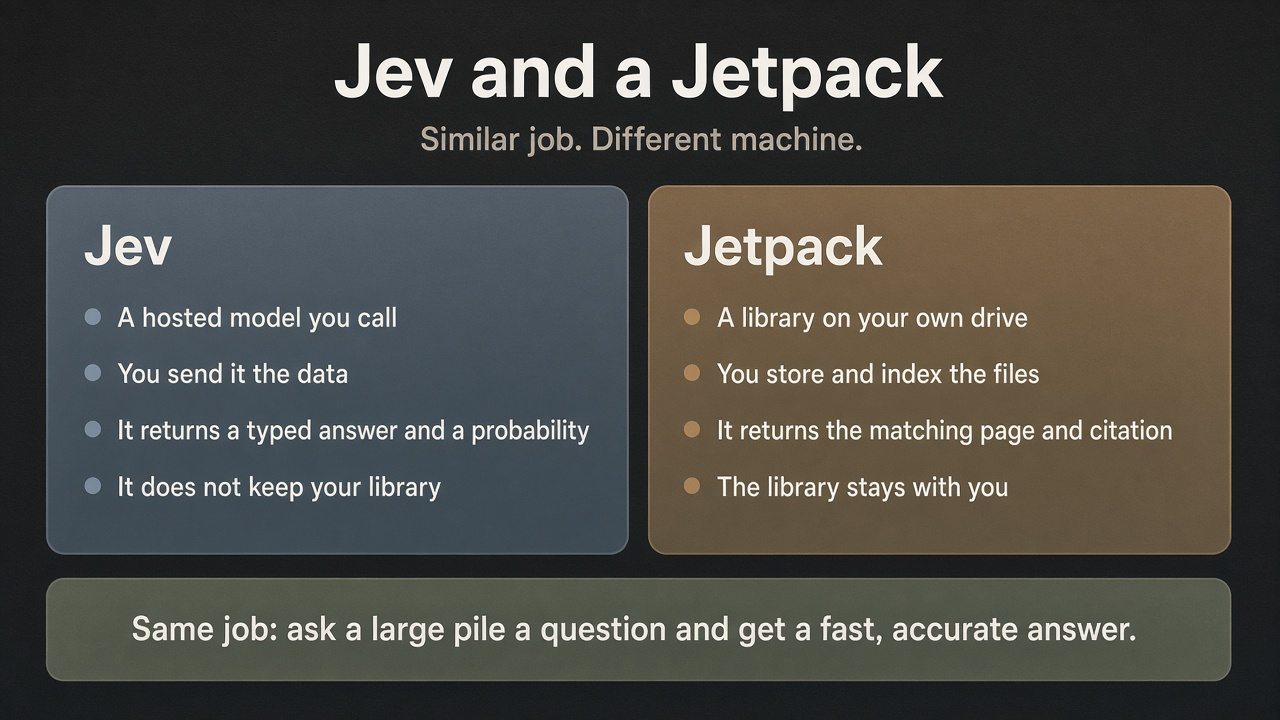
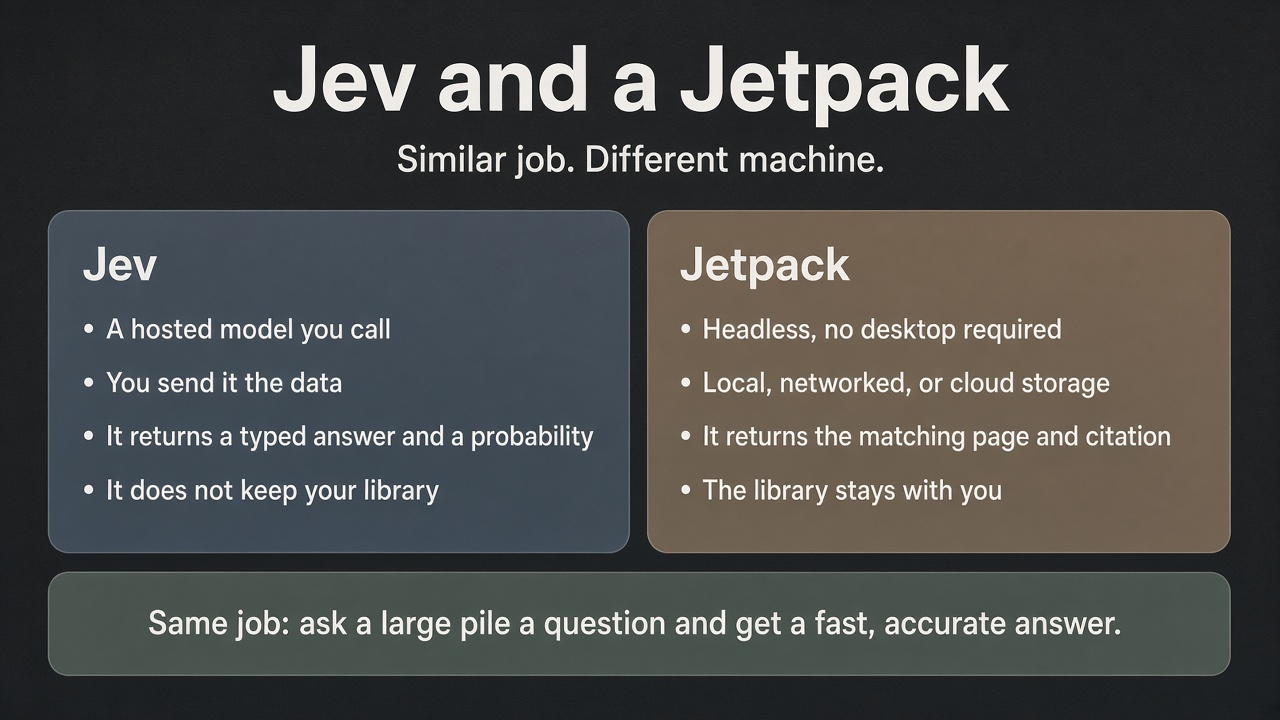
Note where a jetpack library can live.
Add thumb drive and phone storage to the explainer, and replace the comparison card.

diff --git a/README.md b/README.md
@@ -2,7 +2,9 @@
 
 ![Comparison card: Jev is a hosted model you call with data; a jetpack is a library on your own storage that returns the matching page and citation. Same job, different machine.](docs/jev-and-a-jetpack.jpg)
 
-A jetpack is a way to take a large grouping of information, store it, and then do things with that data. It is headless, so it does not need a screen or a desktop app to do its job. The library can live on a local hard drive, a networked drive, or cloud storage. The main thing is query: ask a question and get a fast, accurate answer, with the original page cited, instead of reading the whole pile yourself.
+A jetpack is a way to take a large grouping of information, store it, and then do things with that data. It is headless, so it does not need a screen or a desktop app to do its job. The library can live on a local hard drive, a networked drive, or cloud storage. That includes a connected thumb drive: the files live on the stick, and the machine it is plugged into runs the process. A thumb drive will be slower than an internal disk, so indexing and search take longer, but it still works. The same idea can live locally on a mobile device, like an Android or iPhone: the library sits on the phone, and the phone runs the process against that storage. The practical limits are whatever that device allows for space, processing, and running in the background. The main thing is query: ask a question and get a fast, accurate answer, with the original page cited, instead of reading the whole pile yourself.
+
+Essentially, it is the cheapest way we have found to keep a large body of data that you can still do things with, and to keep context small across time with a team of agents without losing the data or the information.
 
 People sometimes compare this to TypeSafe AI's Jev, or to RAG. The job is similar. The machine is different.
 
